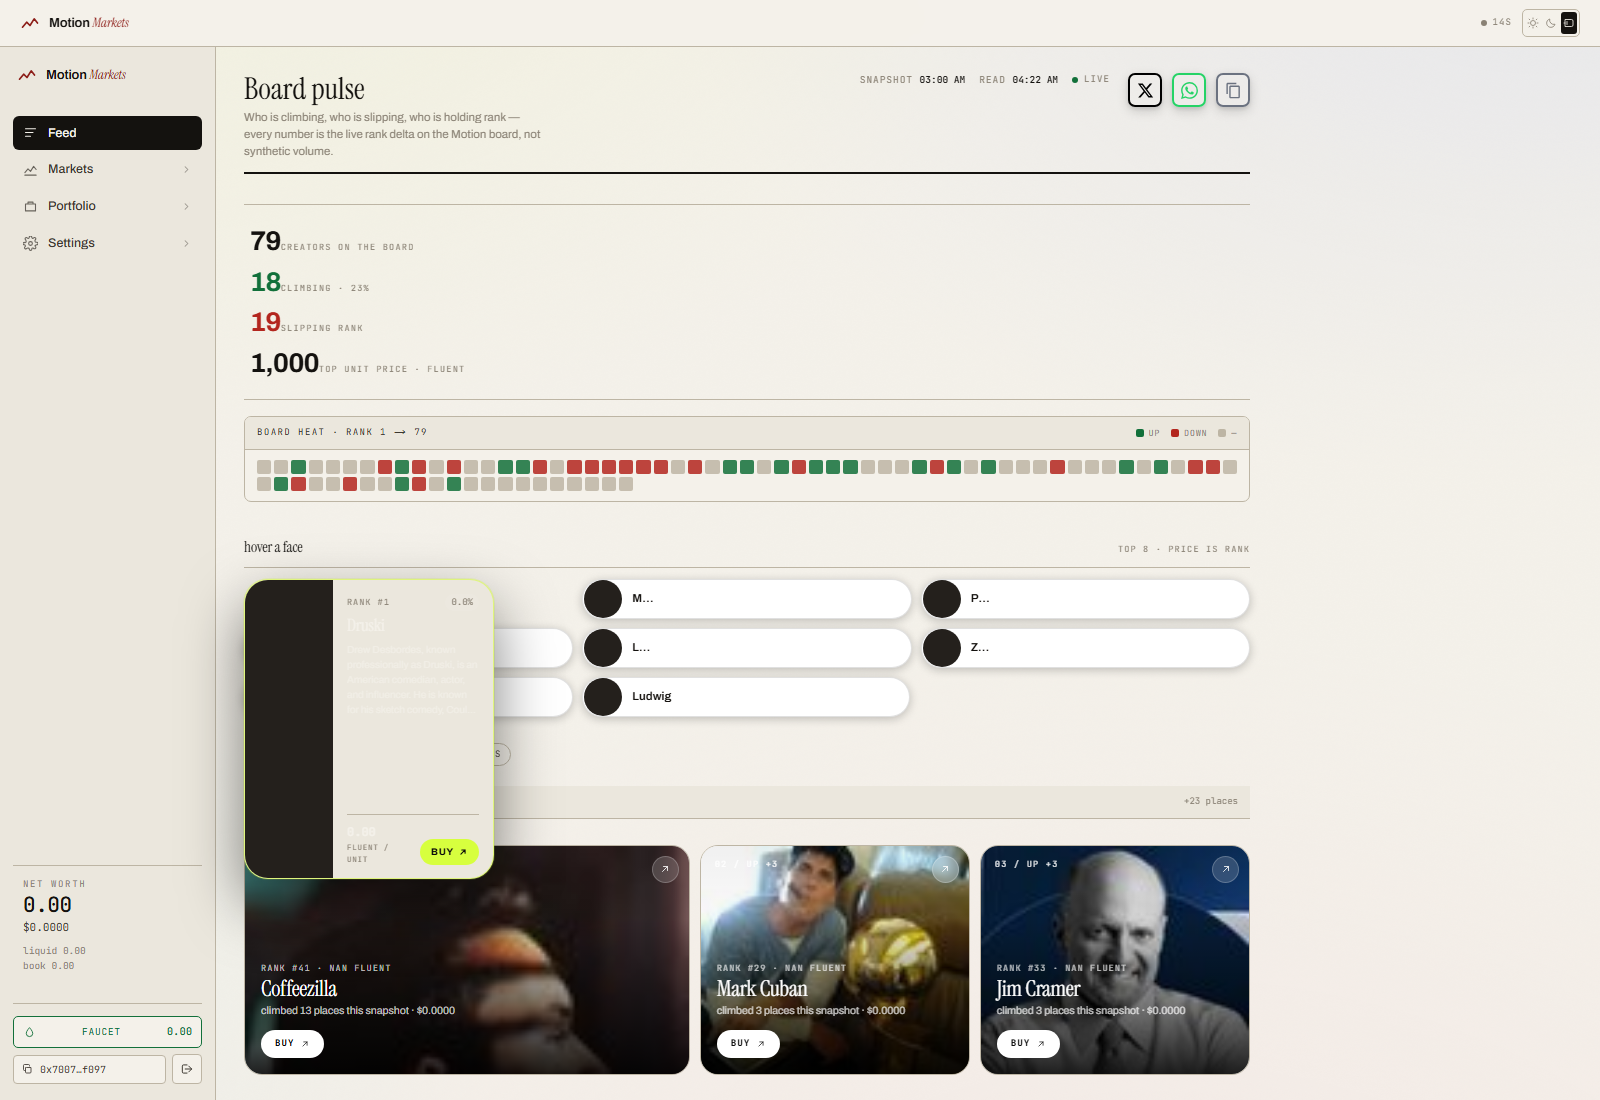
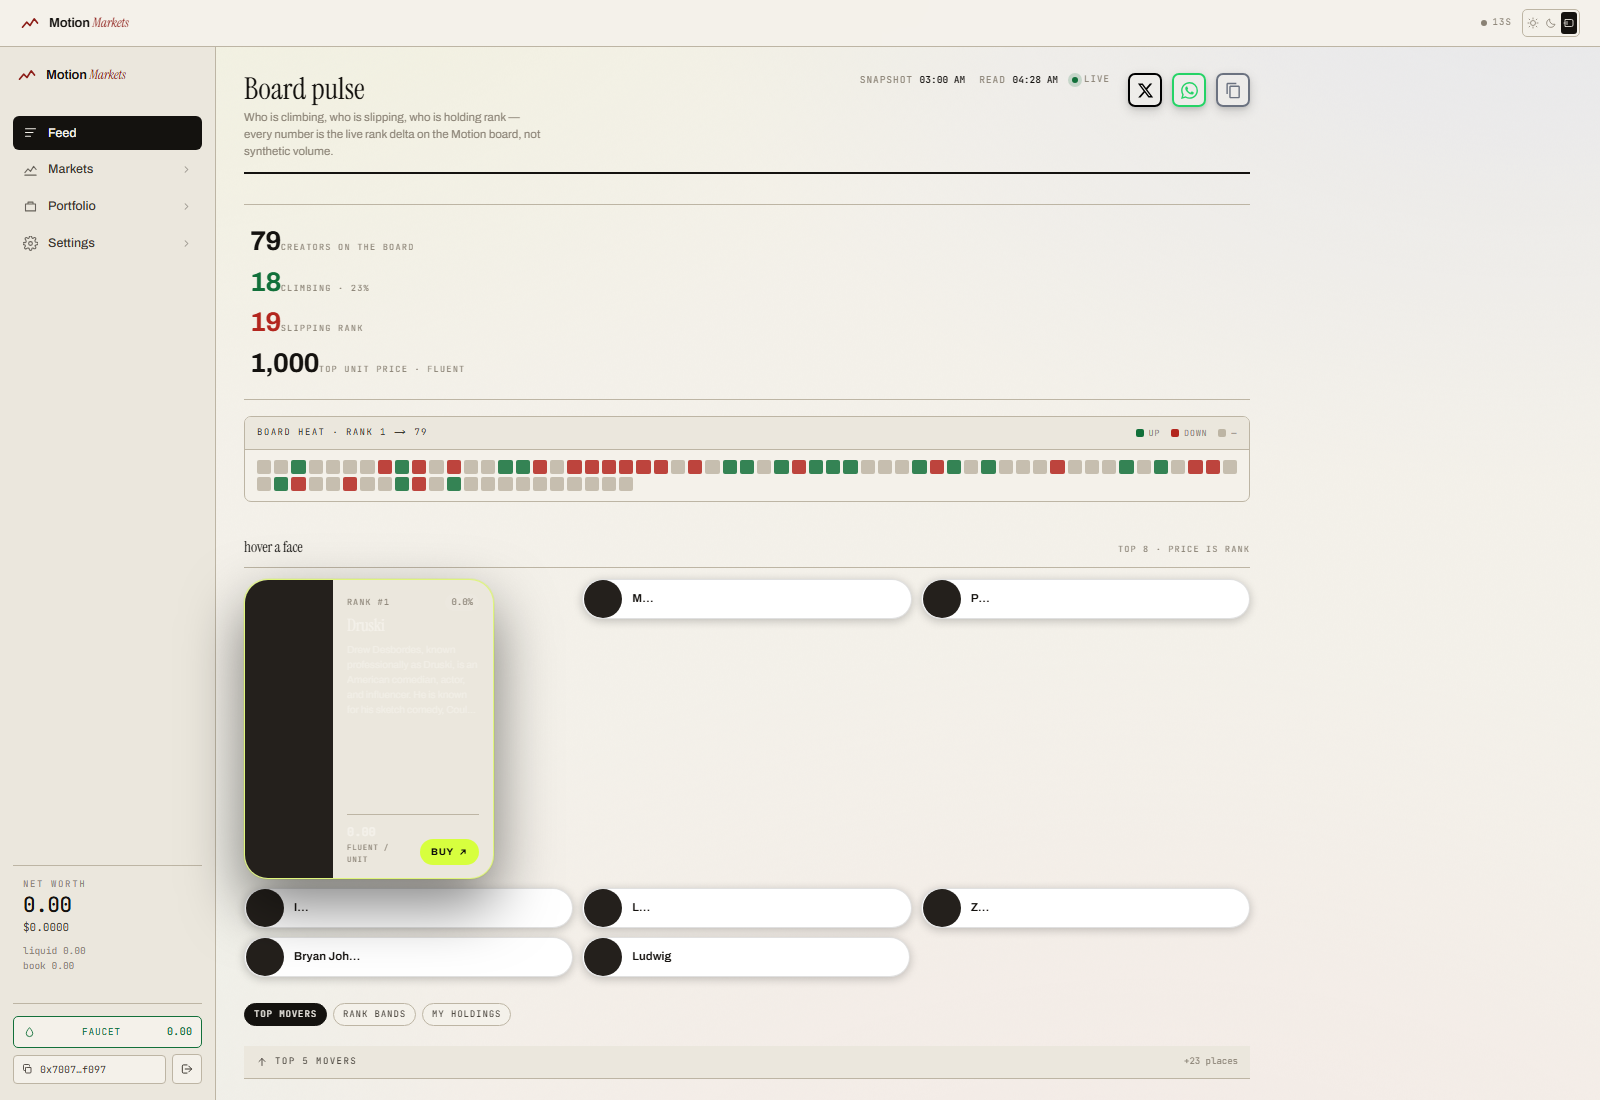
fix(deck): reserve the open card's footprint in the wrapper and keep the card absolute inside it

Changed region(s): [[0.125, 0.7418, 0.7812, 0.9891], [0.3438, 0.5564, 0.4062, 0.6491], [0.5625, 0.5564, 0.625, 0.6182]]

diff --git a/app/src/terminal-wiring.css b/app/src/terminal-wiring.css
@@ -54,21 +54,20 @@
   align-items: start;
 }
 
-/* In-flow growth: the cell reserves the open card's height up front, so the
-   card expands inside its own column and never paints over a neighbour.
-   (Absolutely positioning it meant a 300px card escaping a 40px wrapper.) */
+/* The wrapper reserves the open card's footprint so the grid row keeps its
+   height, and the card itself is absolutely placed inside that reservation —
+   it expands downward into space that is already empty, never over a
+   neighbour (they live in their own non-overlapping grid cells). */
 .deck-row .mpc-wrap {
+  display: block;
   min-height: 40px;
   transition: min-height 300ms ease;
 }
 .deck-row .mpc-wrap:has(.mpc.open) { min-height: 300px; }
-
-/* the card is a button in normal flow, so the wrapper must not clip it */
-.deck-row .mpc-wrap { display: block; }
 .deck-row .mpc.open {
-  position: relative;
-  top: auto;
-  left: auto;
+  position: absolute;
+  top: 0;
+  left: 0;
   z-index: 40;
 }
 
